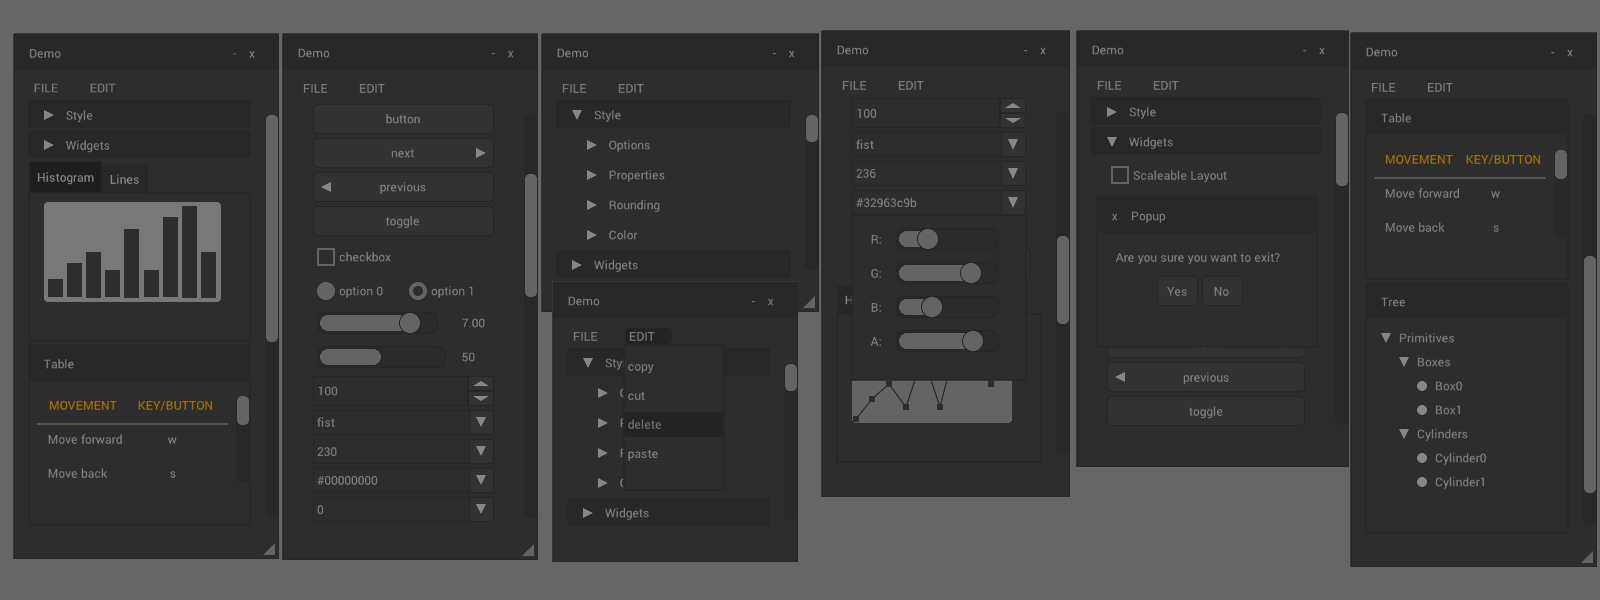
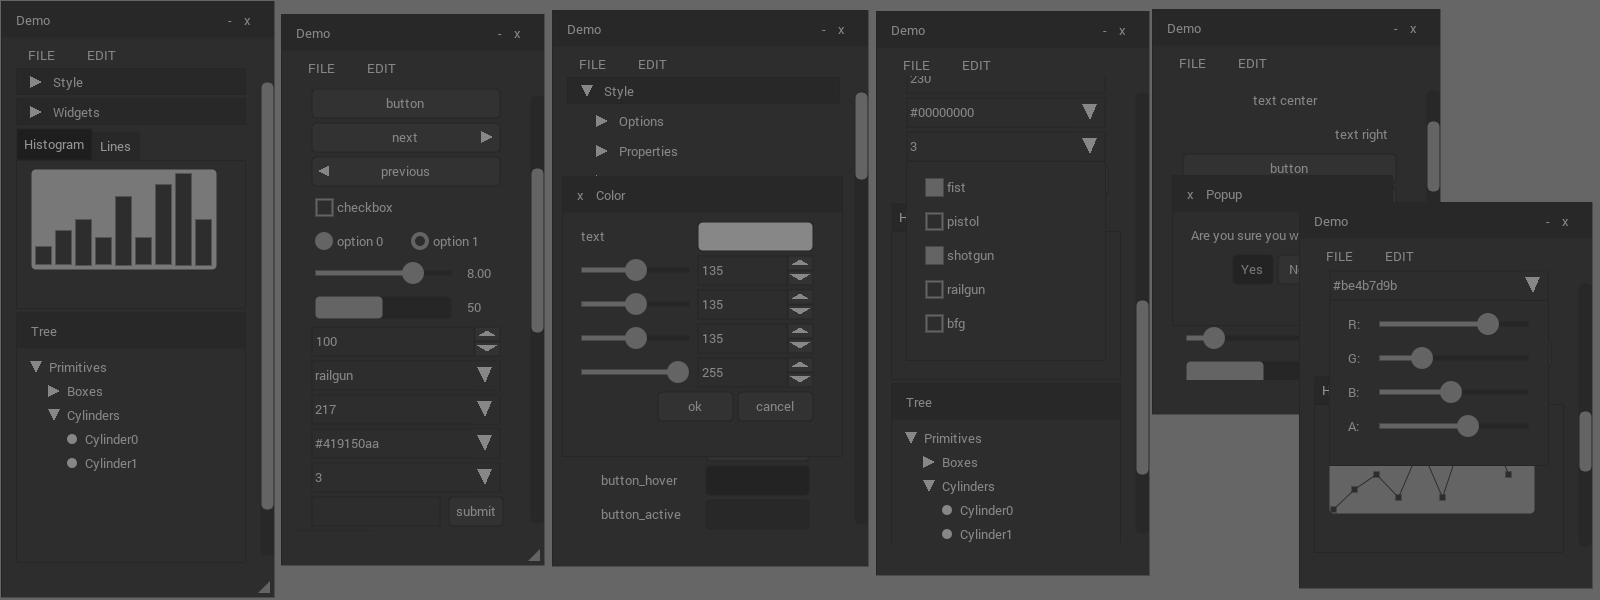
updated screenshot + fixed demo color list

diff --git a/gui.h b/gui.h
@@ -989,12 +989,13 @@ const struct gui_command* gui_command_queue_next(struct gui_command_queue*,
     The reason why the draw list is optional or is not the default library output
     is that basic commands provide an easy way to abstract over other libraries
     which already provide a drawing API and do not need or want the output the
-    draw list provides.
+    draw list provides. In addition it is way easier and takes less memory
+    to serialize commands decribing primitives than vertex data.
 
     USAGE
     ----------------------------
     To actually use the draw list you first need the initialize the draw list
-    by providing three filled buffers to be filled while drawing. The reason
+    by providing three buffers to be filled while drawing. The reason
     buffers need to be provided and not memory or an allocator is to provide
     more fine grained control over the memory inside the draw list, which in term
     requires more work from the user.
@@ -1006,8 +1007,8 @@ const struct gui_command* gui_command_queue_next(struct gui_command_queue*,
 
     Finaly for the drawing process you have to iterate over each draw command
     inside the `gui_draw_list` by using the function `gui_foreach_draw_command`
-    which contains drawing state like clip rectangle, current textue a number
-    of element to draw with the current state.
+    which contains drawing state like clip rectangle, current texture and a number
+    of elements to draw with the current state.
 
     draw list buffer functions
     gui_draw_list_init              - initializes a command buffer with memory
@@ -1366,7 +1367,6 @@ struct gui_font {
     gui_edit_box_remove     -- removes a symbol from the editbox
     gui_edit_box_get        -- returns the string inside the editbox
     gui_edit_box_get_const  -- returns the const string inside the editbox
-    gui_edit_box_len        -- returns the length of the string inside the edditbox
     gui_edit_box_free       -- frees all memory in a dynamic editbox
     gui_edit_box_info       -- fills a memory info struct with data
     gui_edit_box_at         -- returns the glyph at the given position
@@ -1374,7 +1374,7 @@ struct gui_font {
     gui_edit_box_at_char    -- returns the char at the given position
     gui_edit_box_set_cursor -- sets the cursor to a given glyph
     gui_edit_box_get_cursor -- returns the position of the cursor
-    gui_edit_box_len_char   -- returns the length of the string in byte
+    gui_edit_box_len_char   -- returns the length of the string in bytes
     gui_edit_box_len        -- returns the length of the string in glyphes
 */
 struct gui_clipboard {
@@ -2056,7 +2056,6 @@ enum gui_style_colors {
     GUI_COLOR_BUTTON_HOVER,
     GUI_COLOR_BUTTON_ACTIVE,
     GUI_COLOR_TOGGLE,
-    GUI_COLOR_TOGGLE_BACK,
     GUI_COLOR_TOGGLE_HOVER,
     GUI_COLOR_TOGGLE_CURSOR,
     GUI_COLOR_SLIDER,

diff --git a/demo/opengl.c b/demo/opengl.c
@@ -745,7 +745,7 @@ main(int argc, char *argv[])
 
         /* Draw */
         glClear(GL_COLOR_BUFFER_BIT);
-        glClearColor(0.8588f, 0.835f, 0.86f, 1.0f);
+        glClearColor(0.4f, 0.4f, 0.4f, 1.0f);
         device_draw(&device, &gui.queue, width, height);
         SDL_GL_SwapWindow(win);
 
